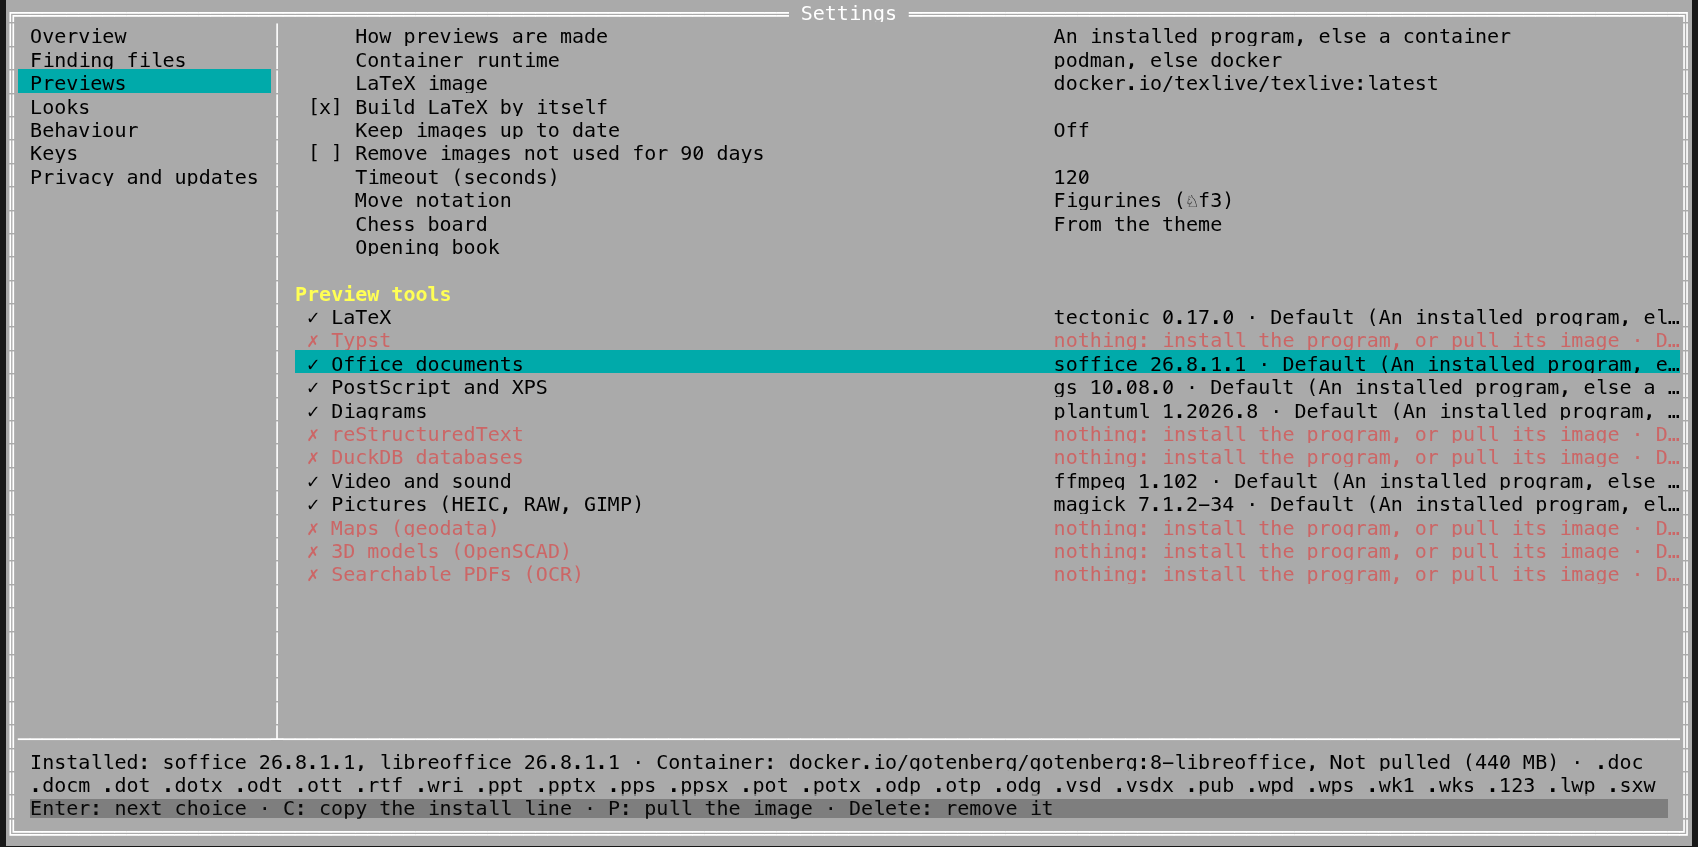
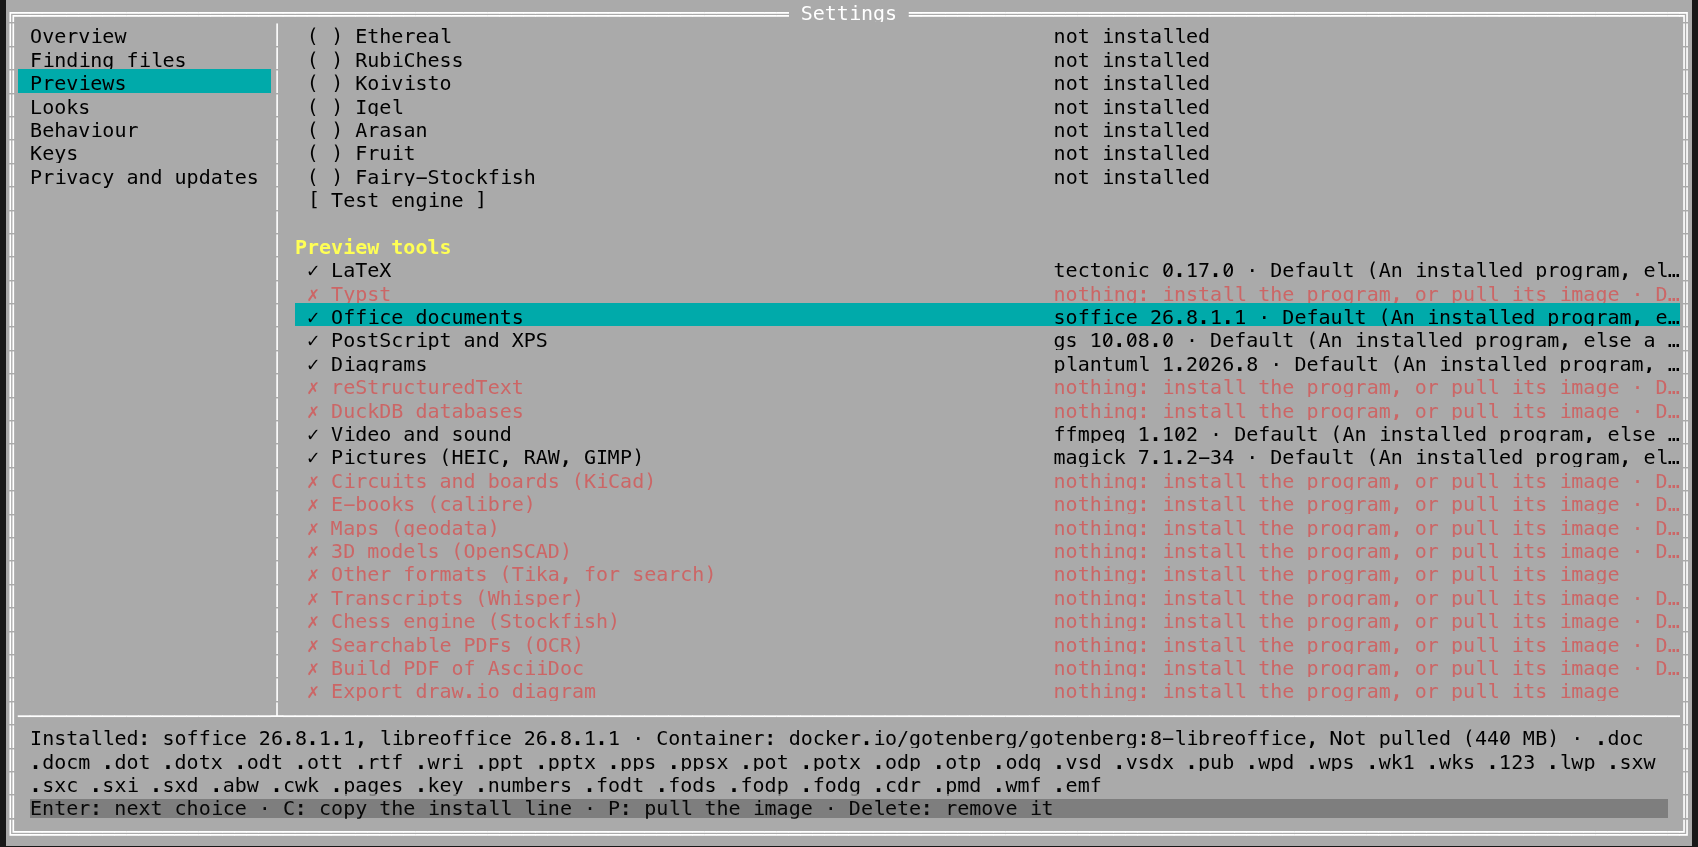
The terminal app's Settings shows each row's explanation whole: the box grows to the lines it needs, the rows above scroll

diff --git a/crates/coxswain/src/settings.rs b/crates/coxswain/src/settings.rs
@@ -1402,6 +1402,136 @@ fn find(query: &str) -> Vec<&'static Opt> {
 
 // ---------------------------------------------------------------- drawing
 
+/// What the row under the cursor is (or what a question waits for), as the bottom box shows it.
+fn explain(app: &App, s: &Settings, rows: &[Row]) -> Vec<Span<'static>> {
+    let cfg = &app.cfg;
+    let level = cs::level(&cfg.search);
+    let base = dstyle(&app.theme);
+    let dim = base.add_modifier(Modifier::DIM);
+    let red = base.fg(Color::Red);
+    let mut text: Vec<Span> = vec![];
+    match &s.mode {
+        // A change of what is kept of long files, or of the vectors' model.
+        Mode::Confirm(why, changes) if changes.keys().any(|k| k.starts_with("long_files")) => text.push(Span::styled(format!("{why} Enter: {} · Esc: {}", t!("common.apply"), t!("common.cancel")), red)),
+        Mode::Confirm(why, _) => text.push(Span::styled(format!("{why} Enter: {} · Esc: {}", t!("settings.meaning_change_go"), t!("settings.meaning_change_keep")), red)),
+        Mode::ConfirmDelete(id) => {
+            let name = rows.iter().find_map(|r| match r {
+                Row::Model(e) if e.id == *id => Some(e.name.clone()),
+                _ => None,
+            });
+            text.push(Span::styled(format!("{} {}", t!("models.confirm", "model" => name.unwrap_or_default()), t!("models.confirm_tui")), red));
+        }
+        // What goes, exactly, before it goes.
+        Mode::ConfirmClear(id) => {
+            let goes: Vec<String> = if id == CLEAR_ALL {
+                s.disk.iter().filter(|i| coxswain_core::disk::clearable_bytes(std::slice::from_ref(*i), s.ticks.0, s.ticks.1) > 0).map(|i| i.name.clone()).collect()
+            } else {
+                s.disk.iter().filter(|i| i.id == *id).map(|i| format!("{} ({}) · {}", i.paths.first().map(|p| p.display().to_string()).unwrap_or_else(|| i.name.clone()), cs::human(i.bytes), i.cost)).collect()
+            };
+            text.push(Span::styled(format!("{} {}. {}", t!("disk.confirm"), goes.join(", "), t!("disk.confirm_tui")), red));
+        }
+        Mode::Find { query, at } => {
+            if let Some(o) = find(query).get(*at) {
+                text.push(Span::raw(o.hint()));
+            }
+        }
+        _ => match rows.get(s.cursor) {
+            Some(Row::Opt(o)) => {
+                text.push(Span::raw(o.hint()));
+                if o.name == "ask_context" {
+                    let a = coxswain_core::setup::context_advice(&cfg.search, coxswain_core::setup::look(false).as_deref());
+                    if let Some(n) = a.suggest {
+                        text.push(Span::styled(format!(" {} {}", a.why, t!("setup.context_use", "n" => n)), red));
+                    }
+                }
+                for c in o.costs {
+                    text.push(Span::styled(format!(" [{}]", c.label()), if *c == cs::Cost::Leaves { red } else { dim }));
+                }
+                let key = if o.path.len() > 1 { format!("[{}] {}", o.path[..o.path.len() - 1].join("."), o.path[o.path.len() - 1]) } else { o.path[0].to_string() };
+                text.push(Span::styled(format!("  {key}"), dim));
+            }
+            Some(Row::Level(l)) => {
+                text.push(Span::raw(t!(&format!("settings.level.{}.hint", l.id()))));
+                for c in l.costs() {
+                    text.push(Span::styled(format!(" [{}]", c.label()), if *c == cs::Cost::Leaves { red } else { dim }));
+                }
+                if level.is_none() {
+                    text.push(Span::styled(format!(" {}", t!("settings.level.custom")), red));
+                }
+            }
+            Some(Row::Status(l)) if l.poor.is_some() => text.push(Span::styled(l.poor.as_ref().map(|p| p.text.clone()).unwrap_or_default(), red)),
+            Some(Row::Status(l)) => {
+                let note = match (l.part, &s.trial) {
+                    (cs::Part::Ask, Some((said, bad))) => Some((said.clone(), *bad)),
+                    _ => l.note.clone().map(|n| (n, l.bad)),
+                };
+                match note {
+                    Some((n, bad)) => text.push(Span::styled(n, if bad { red } else { base })),
+                    None => text.push(Span::raw(l.text.clone())),
+                }
+                if let Some(also) = l.also {
+                    text.push(Span::styled(format!("  {}", t!("settings.step.also_tui", "step" => also.label())), dim));
+                }
+            }
+            Some(Row::SetUp) => text.push(Span::raw(t!("setup.open_hint"))),
+            Some(Row::Guide) => text.push(Span::raw(t!("guide.show_again_hint"))),
+            Some(Row::EditKeys) => text.push(Span::raw(t!("settings.keys_hint"))),
+            Some(Row::Tool(_, false, Some(line))) => text.push(Span::raw(t!("install.copy_tui", "command" => line))),
+            Some(Row::Tool(name, false, None)) => text.push(Span::raw(t!("install.get", "program" => name))),
+            Some(Row::Tool(name, true, _)) => text.push(Span::raw(t!(&format!("settings.search_tool_{name}")))),
+            Some(Row::Service) => text.push(Span::raw(t!("setup.service_hint"))),
+            Some(Row::Info(_, _, hint)) => text.push(Span::raw(hint.clone())),
+            Some(Row::Go(_, value)) => text.push(Span::raw(value.clone())),
+            Some(Row::Notice(n)) => text.push(Span::raw(n.text.clone())),
+            Some(Row::Poor(p)) => text.push(Span::raw(p.text.clone())),
+            Some(Row::Model(e)) => {
+                text.push(Span::raw(e.folder.display().to_string()));
+                text.push(Span::styled(format!("  {}", t!("models.keys_tui")), dim));
+            }
+            Some(Row::DeleteUnused(_)) => text.push(Span::raw(t!("models.hint"))),
+            Some(Row::Server(_)) => text.push(Span::raw(t!("settings.history_servers_hint"))),
+            Some(Row::Disk(i)) => {
+                let at = i.paths.first().map(|p| format!(" · {}", p.display())).unwrap_or_default();
+                text.push(Span::raw(format!("{} {}: {}", i.what, t!("disk.cost_label"), i.cost)));
+                text.push(Span::styled(at, dim));
+            }
+            Some(Row::Tick(true, _)) => text.push(Span::raw(t!("disk.outside_hint"))),
+            Some(Row::Tick(false, _)) => text.push(Span::raw(t!("models.hint"))),
+            Some(Row::ClearAll(_)) => text.push(Span::raw(t!("disk.clear_all_hint"))),
+            Some(Row::Engine(e)) => {
+                let mut parts: Vec<String> = e.note.iter().cloned().collect();
+                if let Some(line) = &e.install {
+                    parts.push(format!("{} {line}", t!("install.with")));
+                }
+                parts.extend(e.site.map(String::from));
+                text.push(Span::raw(parts.join(" · ")));
+            }
+            Some(Row::EngineTest) => text.push(Span::raw(t!("chess.engine_test_hint"))),
+            Some(Row::EngineReset) => text.push(Span::raw(t!("chess.engine_reset_hint"))),
+            Some(Row::EngineOpt(o)) => text.push(Span::raw(option_about(&o.option))),
+            Some(Row::PreviewTool(r)) => {
+                let installed: Vec<String> = r.programs.iter().filter(|p| p.path.is_some()).map(|p| p.version.as_ref().map_or_else(|| p.name.to_string(), |v| format!("{} {v}", p.name))).collect();
+                let mut parts = vec![if installed.is_empty() { t!("ptools.installed_none") } else { t!("ptools.installed", "programs" => installed.join(", ")) }];
+                if let (true, Some(line)) = (installed.is_empty(), &r.install) {
+                    parts.push(format!("{} {line}", t!("install.with")));
+                }
+                for i in &r.images {
+                    let state = match (i.pulled, &i.download) {
+                        (Some(b), _) => t!("settings.image_pulled", "size" => cs::human(b)),
+                        (None, Some(d)) => format!("{} ({d})", t!("settings.image_not_pulled")),
+                        (None, None) => t!("settings.image_not_pulled"),
+                    };
+                    parts.push(if i.image.is_empty() { t!("ptools.container_none", "key" => i.key) } else { t!("ptools.container", "image" => coxswain_core::images::short(&i.image), "state" => state) });
+                }
+                parts.push(r.exts.clone());
+                text.push(Span::raw(parts.join(" · ")));
+            }
+            _ => {}
+        },
+    }
+    text
+}
+
 /// Full screen: areas left, rows right, the selected row explained at the bottom.
 pub fn draw(f: &mut Frame, app: &mut App) {
     // The models on the disk, read again only when what is loaded changed.
@@ -1444,7 +1574,12 @@ pub fn draw(f: &mut Frame, app: &mut App) {
 
     // Areas on the left, a third of the width at most.
     let aw = AREAS.iter().map(|a| a.label().width()).max().unwrap_or(10).min(inner.width as usize / 3) + 2;
-    let body_h = inner.height - 4;
+    // The explanation whole: its box grows to the lines it needs, the rows above giving way
+    // (they scroll); three rows are kept for them.
+    let explain_w = inner.width - 3;
+    let text = Paragraph::new(Line::from(explain(app, s, &rows))).wrap(Wrap { trim: true });
+    let explain_h = (text.line_count(explain_w) as u16).clamp(2, inner.height.saturating_sub(5).max(2));
+    let body_h = inner.height - 2 - explain_h;
     for (i, a) in AREAS.iter().enumerate().take(body_h as usize) {
         let st = if *a == s.area { selected } else { base };
         f.render_widget(Paragraph::new(fit(&format!(" {}", a.label()), aw)).style(st), Rect { x: inner.x, y: inner.y + i as u16, width: aw as u16, height: 1 });
@@ -1663,135 +1798,15 @@ pub fn draw(f: &mut Frame, app: &mut App) {
     }
     f.render_widget(Paragraph::new(lines.into_iter().skip(offset).take(height).collect::<Vec<_>>()), right);
 
-    // The bottom: a rule, what the row is (two lines), the keys or what was done.
+    // The bottom: a rule, what the row is (as many lines as it needs), the keys or what was done.
     let y = inner.y + body_h;
     let rule = format!("{}┴{}", "─".repeat(aw), "─".repeat((inner.width as usize).saturating_sub(aw + 1)));
     f.render_widget(Paragraph::new(rule).style(border), Rect { y, height: 1, ..inner });
     let Some(Dialog::Settings(s)) = &app.dialog else { return };
     // One column short: ratatui lets a wide letter that wraps at the edge spill over the frame.
-    let explain = Rect { x: inner.x + 1, y: y + 1, height: 2, width: inner.width - 3 };
-    let mut text: Vec<Span> = vec![];
-    match &s.mode {
-        // A change of what is kept of long files, or of the vectors' model.
-        Mode::Confirm(why, changes) if changes.keys().any(|k| k.starts_with("long_files")) => text.push(Span::styled(format!("{why} Enter: {} · Esc: {}", t!("common.apply"), t!("common.cancel")), red)),
-        Mode::Confirm(why, _) => text.push(Span::styled(format!("{why} Enter: {} · Esc: {}", t!("settings.meaning_change_go"), t!("settings.meaning_change_keep")), red)),
-        Mode::ConfirmDelete(id) => {
-            let name = rows.iter().find_map(|r| match r {
-                Row::Model(e) if e.id == *id => Some(e.name.clone()),
-                _ => None,
-            });
-            text.push(Span::styled(format!("{} {}", t!("models.confirm", "model" => name.unwrap_or_default()), t!("models.confirm_tui")), red));
-        }
-        // What goes, exactly, before it goes.
-        Mode::ConfirmClear(id) => {
-            let goes: Vec<String> = if id == CLEAR_ALL {
-                s.disk.iter().filter(|i| coxswain_core::disk::clearable_bytes(std::slice::from_ref(*i), s.ticks.0, s.ticks.1) > 0).map(|i| i.name.clone()).collect()
-            } else {
-                s.disk.iter().filter(|i| i.id == *id).map(|i| format!("{} ({}) · {}", i.paths.first().map(|p| p.display().to_string()).unwrap_or_else(|| i.name.clone()), cs::human(i.bytes), i.cost)).collect()
-            };
-            text.push(Span::styled(format!("{} {}. {}", t!("disk.confirm"), goes.join(", "), t!("disk.confirm_tui")), red));
-        }
-        Mode::Find { query, at } => {
-            if let Some(o) = find(query).get(*at) {
-                text.push(Span::raw(o.hint()));
-            }
-        }
-        _ => match rows.get(s.cursor) {
-            Some(Row::Opt(o)) => {
-                text.push(Span::raw(o.hint()));
-                if o.name == "ask_context" {
-                    let a = coxswain_core::setup::context_advice(&cfg.search, coxswain_core::setup::look(false).as_deref());
-                    if let Some(n) = a.suggest {
-                        text.push(Span::styled(format!(" {} {}", a.why, t!("setup.context_use", "n" => n)), red));
-                    }
-                }
-                for c in o.costs {
-                    text.push(Span::styled(format!(" [{}]", c.label()), if *c == cs::Cost::Leaves { red } else { dim }));
-                }
-                let key = if o.path.len() > 1 { format!("[{}] {}", o.path[..o.path.len() - 1].join("."), o.path[o.path.len() - 1]) } else { o.path[0].to_string() };
-                text.push(Span::styled(format!("  {key}"), dim));
-            }
-            Some(Row::Level(l)) => {
-                text.push(Span::raw(t!(&format!("settings.level.{}.hint", l.id()))));
-                for c in l.costs() {
-                    text.push(Span::styled(format!(" [{}]", c.label()), if *c == cs::Cost::Leaves { red } else { dim }));
-                }
-                if level.is_none() {
-                    text.push(Span::styled(format!(" {}", t!("settings.level.custom")), red));
-                }
-            }
-            Some(Row::Status(l)) if l.poor.is_some() => text.push(Span::styled(l.poor.as_ref().map(|p| p.text.clone()).unwrap_or_default(), red)),
-            Some(Row::Status(l)) => {
-                let note = match (l.part, &s.trial) {
-                    (cs::Part::Ask, Some((said, bad))) => Some((said.clone(), *bad)),
-                    _ => l.note.clone().map(|n| (n, l.bad)),
-                };
-                match note {
-                    Some((n, bad)) => text.push(Span::styled(n, if bad { red } else { base })),
-                    None => text.push(Span::raw(l.text.clone())),
-                }
-                if let Some(also) = l.also {
-                    text.push(Span::styled(format!("  {}", t!("settings.step.also_tui", "step" => also.label())), dim));
-                }
-            }
-            Some(Row::SetUp) => text.push(Span::raw(t!("setup.open_hint"))),
-            Some(Row::Guide) => text.push(Span::raw(t!("guide.show_again_hint"))),
-            Some(Row::EditKeys) => text.push(Span::raw(t!("settings.keys_hint"))),
-            Some(Row::Tool(_, false, Some(line))) => text.push(Span::raw(t!("install.copy_tui", "command" => line))),
-            Some(Row::Tool(name, false, None)) => text.push(Span::raw(t!("install.get", "program" => name))),
-            Some(Row::Tool(name, true, _)) => text.push(Span::raw(t!(&format!("settings.search_tool_{name}")))),
-            Some(Row::Service) => text.push(Span::raw(t!("setup.service_hint"))),
-            Some(Row::Info(_, _, hint)) => text.push(Span::raw(hint.clone())),
-            Some(Row::Go(_, value)) => text.push(Span::raw(value.clone())),
-            Some(Row::Notice(n)) => text.push(Span::raw(n.text.clone())),
-            Some(Row::Poor(p)) => text.push(Span::raw(p.text.clone())),
-            Some(Row::Model(e)) => {
-                text.push(Span::raw(e.folder.display().to_string()));
-                text.push(Span::styled(format!("  {}", t!("models.keys_tui")), dim));
-            }
-            Some(Row::DeleteUnused(_)) => text.push(Span::raw(t!("models.hint"))),
-            Some(Row::Server(_)) => text.push(Span::raw(t!("settings.history_servers_hint"))),
-            Some(Row::Disk(i)) => {
-                let at = i.paths.first().map(|p| format!(" · {}", p.display())).unwrap_or_default();
-                text.push(Span::raw(format!("{} {}: {}", i.what, t!("disk.cost_label"), i.cost)));
-                text.push(Span::styled(at, dim));
-            }
-            Some(Row::Tick(true, _)) => text.push(Span::raw(t!("disk.outside_hint"))),
-            Some(Row::Tick(false, _)) => text.push(Span::raw(t!("models.hint"))),
-            Some(Row::ClearAll(_)) => text.push(Span::raw(t!("disk.clear_all_hint"))),
-            Some(Row::Engine(e)) => {
-                let mut parts: Vec<String> = e.note.iter().cloned().collect();
-                if let Some(line) = &e.install {
-                    parts.push(format!("{} {line}", t!("install.with")));
-                }
-                parts.extend(e.site.map(String::from));
-                text.push(Span::raw(parts.join(" · ")));
-            }
-            Some(Row::EngineTest) => text.push(Span::raw(t!("chess.engine_test_hint"))),
-            Some(Row::EngineReset) => text.push(Span::raw(t!("chess.engine_reset_hint"))),
-            Some(Row::EngineOpt(o)) => text.push(Span::raw(option_about(&o.option))),
-            Some(Row::PreviewTool(r)) => {
-                let installed: Vec<String> = r.programs.iter().filter(|p| p.path.is_some()).map(|p| p.version.as_ref().map_or_else(|| p.name.to_string(), |v| format!("{} {v}", p.name))).collect();
-                let mut parts = vec![if installed.is_empty() { t!("ptools.installed_none") } else { t!("ptools.installed", "programs" => installed.join(", ")) }];
-                if let (true, Some(line)) = (installed.is_empty(), &r.install) {
-                    parts.push(format!("{} {line}", t!("install.with")));
-                }
-                for i in &r.images {
-                    let state = match (i.pulled, &i.download) {
-                        (Some(b), _) => t!("settings.image_pulled", "size" => cs::human(b)),
-                        (None, Some(d)) => format!("{} ({d})", t!("settings.image_not_pulled")),
-                        (None, None) => t!("settings.image_not_pulled"),
-                    };
-                    parts.push(if i.image.is_empty() { t!("ptools.container_none", "key" => i.key) } else { t!("ptools.container", "image" => coxswain_core::images::short(&i.image), "state" => state) });
-                }
-                parts.push(r.exts.clone());
-                text.push(Span::raw(parts.join(" · ")));
-            }
-            _ => {}
-        },
-    }
-    f.render_widget(Paragraph::new(Line::from(text)).wrap(Wrap { trim: true }), explain);
-    let keys = Rect { x: inner.x + 1, y: y + 3, height: 1, width: inner.width - 2 };
+    let explain = Rect { x: inner.x + 1, y: y + 1, height: explain_h, width: explain_w };
+    f.render_widget(text, explain);
+    let keys = Rect { x: inner.x + 1, y: y + 1 + explain_h, height: 1, width: inner.width - 2 };
     let (line, st) = match (&s.said, &s.mode) {
         (Some((said, bad)), _) => (said.clone(), if *bad { red } else { dim }),
         (None, Mode::Edit(_) | Mode::EngineEdit(_)) => (crate::ui::keys(&t!("verb.save")), dim),
@@ -2163,6 +2178,49 @@ mod tests {
         let mut all: Vec<&str> = cs::OPTIONS.iter().filter(|o| o.area == Area::Looks).map(|o| o.name).collect();
         all.sort();
         assert_eq!(names, all);
+    }
+
+    /// At 80×24, in English and in the language whose texts are widest, every row's
+    /// explanation shows whole in the box at the bottom. The language is the whole process's,
+    /// so this runs in a process of its own.
+    #[test]
+    fn every_explanation_shows_whole_at_80_by_24() {
+        if std::env::var_os("COXSWAIN_EXPLAIN_TEST").is_none() {
+            let out = std::process::Command::new(std::env::current_exe().unwrap())
+                .args(["settings::tests::every_explanation_shows_whole_at_80_by_24", "--exact", "--test-threads=1"])
+                .env("COXSWAIN_EXPLAIN_TEST", "1")
+                .output()
+                .unwrap();
+            assert!(out.status.success(), "{}", String::from_utf8_lossy(&out.stdout));
+            return;
+        }
+        let width = |code: &str| coxswain_core::i18n::catalogue(code).values().filter_map(Value::as_str).map(|v| v.width()).sum::<usize>();
+        let widest = coxswain_core::i18n::LANGUAGES.iter().map(|l| l.code).max_by_key(|c| width(c)).unwrap();
+        let d = crate::test_dir("panels");
+        let squeeze = |t: &str| t.chars().filter(|c| !c.is_whitespace() && *c != '║').collect::<String>();
+        for lang in ["en-GB", widest] {
+            coxswain_core::i18n::set_language(lang);
+            for area in AREAS {
+                let mut app = app(&d);
+                app.dialog = Some(Dialog::Settings(Box::new(Settings::open(&app, area.id()))));
+                let mut last = None;
+                loop {
+                    let lines = screen(&mut app, 80, 24);
+                    let s = settings(&app);
+                    let rows = rows(&app, s);
+                    let want: String = explain(&app, s, &rows).iter().map(|x| x.content.as_ref()).collect();
+                    let rule = lines.iter().position(|l| l.contains('┴')).unwrap();
+                    let shown = lines[rule + 1..22].concat();
+                    assert_eq!(squeeze(&shown), squeeze(&want), "{lang}, {}, row {}", area.id(), s.cursor);
+                    if last == Some(s.cursor) {
+                        break;
+                    }
+                    last = Some(s.cursor);
+                    key(&mut app, KeyCode::Down);
+                }
+            }
+        }
+        coxswain_core::i18n::set_language("en-GB");
     }
 
     /// Every section can be walked to its last row by Down, drawn between keys as the app does,

diff --git a/crates/coxswain/src/lib.rs b/crates/coxswain/src/lib.rs
@@ -6398,7 +6398,9 @@ mod wide_letters {
             for _ in 0..settings::AREAS.len() {
                 let s = draw(&mut app);
                 same_columns(&s, "║", 1..23);
-                same_columns(&s, "│", 1..19);
+                // The bar runs down to the rule over the explanation, which takes the lines it needs.
+                let rule = (1..23).find(|&y| s[y].iter().any(|c| c == "┴")).unwrap();
+                same_columns(&s, "│", 1..rule);
                 app.dialog_key(Key::new(KeyCode::Right, false, false, false));
             }
         }

diff --git a/docs/previews/tools.md b/docs/previews/tools.md
@@ -117,7 +117,7 @@ no image **Enter** skips *Container*, and the keys are **Enter**, **C** and **O*
 none) to name an image. The
 terminal app has no **Try**: it shows no rendered preview.
 
-![The terminal app's Settings, Previews: the options, then Preview tools, a line per kind with its choice and what is used now](../screenshots/tui-previews-tools.png)
+![The terminal app's Settings, Previews: the chess engines, then Preview tools, a line per kind with its choice and what is used now; Office documents under the cursor, its explanation at the bottom whole on three lines: what is installed, its container image and every extension it covers](../screenshots/tui-previews-tools.png)
 
 ## Preview with…
 

diff --git a/docs/customise/settings.md b/docs/customise/settings.md
@@ -339,7 +339,8 @@ Every change is saved at once: the bottom line says *Saved to …/config.toml*, 
 file was not written. While a field is open for typing, the bottom says *Enter Save · Esc
 Cancel*. The bottom also shows, for the row under the cursor, its one-line explanation, its costs
 as text in brackets (`[disk space]`, `[can leave this machine]` in red) and its key in
-`config.toml`.
+`config.toml`, always whole: in a small terminal or a long language the box grows to the lines it
+needs and the rows above it scroll.
 
 ### What each area holds
 

diff --git a/changelog.d/fix-tui-settings-hint-box.md b/changelog.d/fix-tui-settings-hint-box.md
@@ -1,0 +1,1 @@
+| **The terminal app's Settings shows each row's explanation whole.** The box at the bottom grows to the lines it needs, at 80×24 and in every language, and the rows above scroll; it used to cut long explanations after two lines. | [Settings](customise/settings.md#in-the-terminal-app) |
